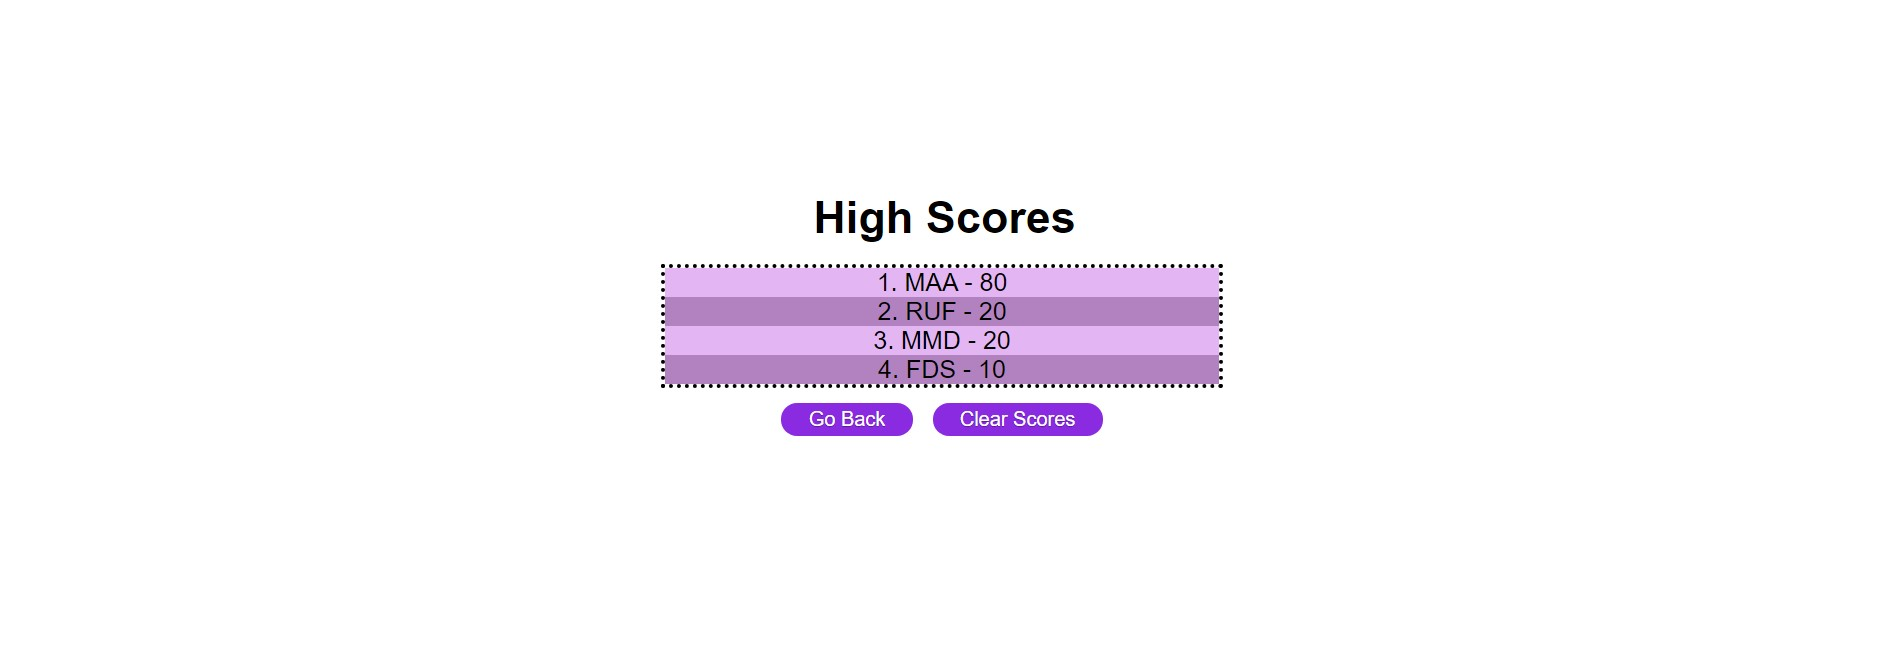
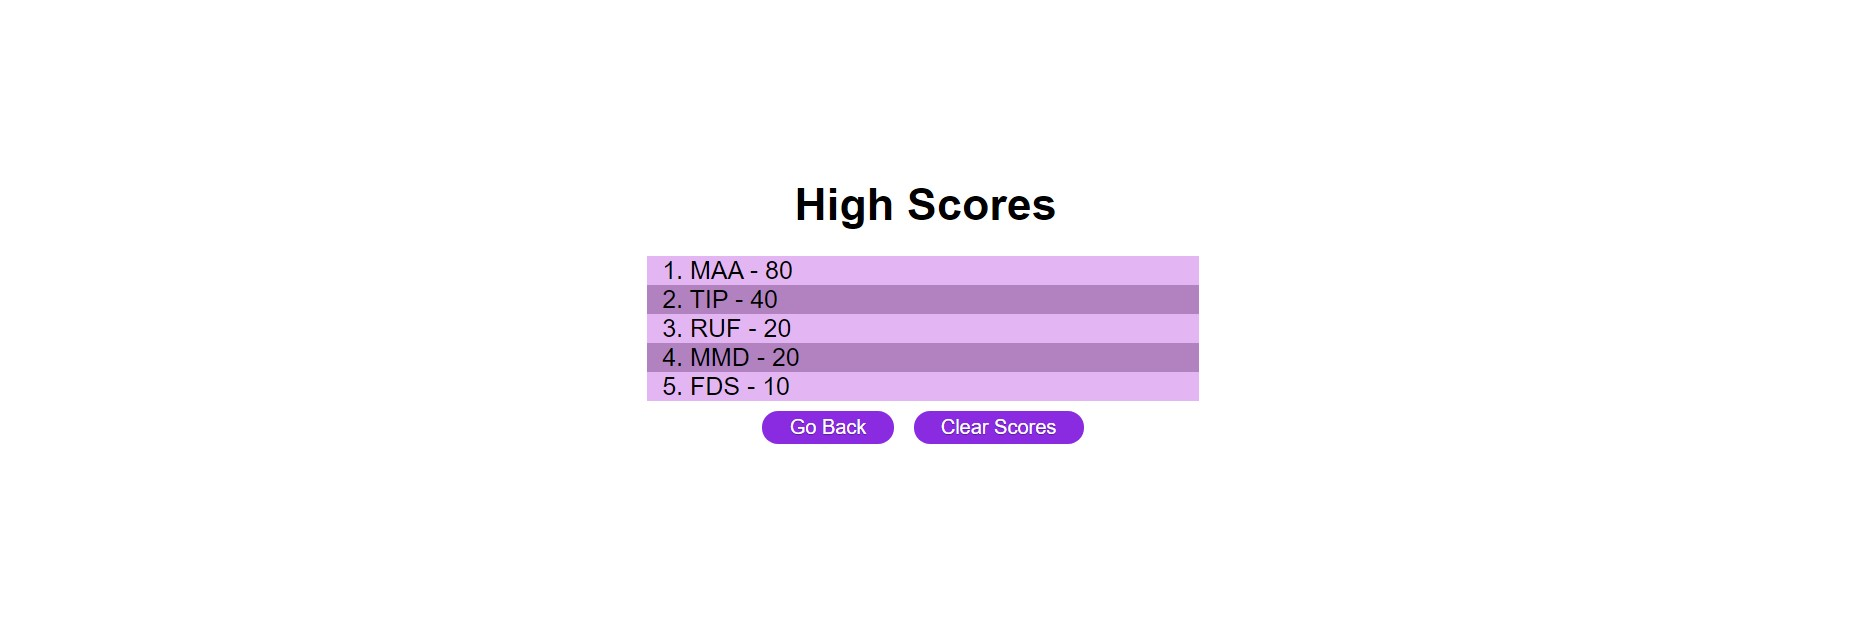
slight CSS updated to highscores

Changed region(s): [[0.3414, 0.3927, 0.6517, 0.725], [0.4034, 0.3021, 0.5896, 0.3625]]

diff --git a/assets/styles/style.css b/assets/styles/style.css
@@ -71,11 +71,12 @@ header {
 /* score board elements */
 .scoreboard {
     width: 45%;
-    margin-bottom: 10px;
-    border: 4px dotted black;
+    padding: 5px;
 }
 .scoreboard p{
     margin: 0;
+    padding: 0 0 0 15px;
+    text-align: left;
     background-color: rgba(205, 121, 231, 0.55);
 }
 .scoreboard p:nth-child(2n){
